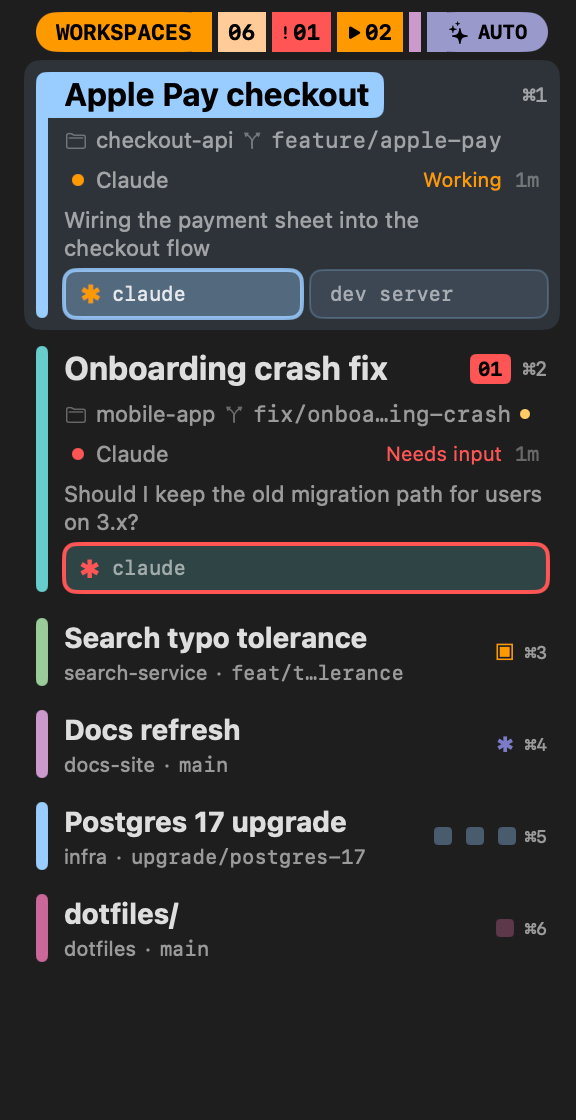
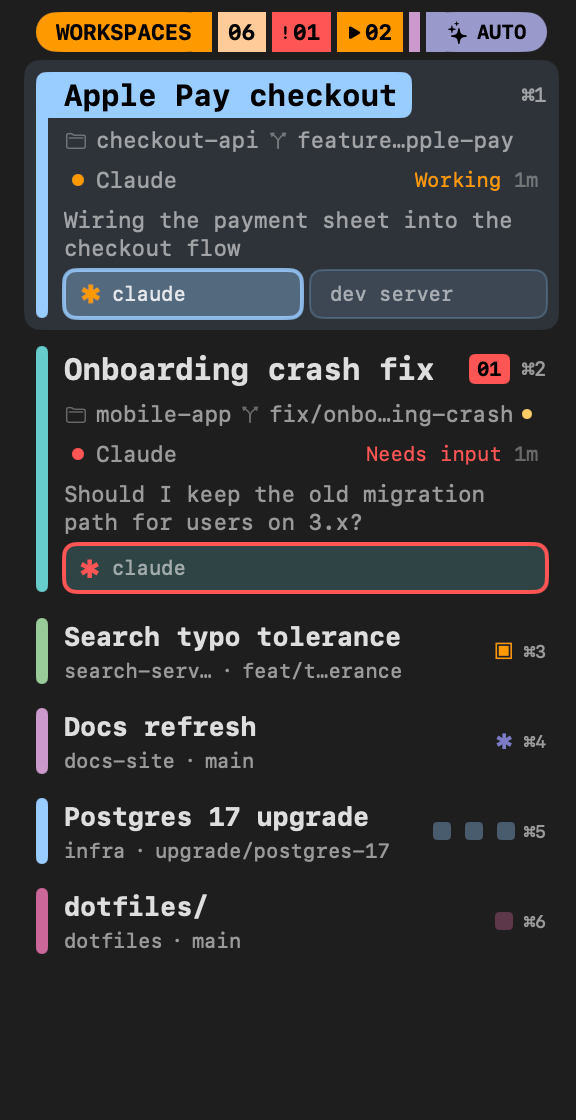
Letter everything in monospace
Names, folders, session labels, status words, messages and the close
prompt now use the monospaced font too, so the whole sidebar reads like
a console readout. Workspace names drop a point (15 on full cards, 13 on
compact rows) so long ones still fit beside the badges and marks. The
agent marks stay in the system font so their size and centre don't move.

diff --git a/lcars.js b/lcars.js
@@ -89,9 +89,8 @@ const PILL = BAR / 2;
 
 const WHITE = "#FFFFFF";
 
-// Typeface rule: monospaced for readouts and data (header, counts, ages,
-// hints, branches, tile labels), the system font for names and prose
-// (workspace titles, folders, session labels, status, messages).
+// Typeface rule: every word is monospaced, like a console readout. The
+// agent marks are not, so their size and centre don't depend on the font.
 
 // Alpha suffixes for `tint`, named by where they are used.
 const ALPHA = {
@@ -341,10 +340,10 @@ function sessionRow(w, s) {
   return HStack({ spacing: 6 }, [
     Circle({ size: 6 }).fill(() => meta().color),
     Text(() => s().label)
-      .font(11).color("secondary")
+      .font(11).monospaced().color("secondary")
       .lineLimit(1).truncation("tail"),
     Spacer({ minLength: 4 }),
-    Text(() => meta().label).font(10).color(() => meta().color).fixedSize(),
+    Text(() => meta().label).font(10).monospaced().color(() => meta().color).fixedSize(),
     Text(() => sessionAge(s().agent))
       .font(10).monospaced()
       .color(() => (quiet(s().agent) ? meta().color : "tertiary"))
@@ -429,7 +428,7 @@ function shortcutHint(w, size) {
 function elbowTitle(w, size, pad) {
   const selected = () => !!w()?.selected;
   return Text(() => workspaceTitle(w()))
-    .font(size).weight("bold")
+    .font(size).weight("bold").monospaced()
     .lineLimit(1).truncation("tail").marquee()
     .color(() => (selected() ? inkOn(accent(w())) : tint(WHITE, ALPHA.strong)))
     .paddingLeading(ELBOW_INSET)
@@ -474,7 +473,7 @@ function card(w) {
   const body = VStack({ spacing: 4 }, [
     // Title row: name, then pin / unread badge.
     HStack({ spacing: 6 }, [
-      elbowTitle(w, 16, 2),
+      elbowTitle(w, 15, 2),
       Spacer({ minLength: 0 }),
       when(() => (w()?.pinned ? "pin" : ""), "pin", () =>
         Image("pin.fill").font(9).color("tertiary")
@@ -486,7 +485,7 @@ function card(w) {
       // Folder and branch.
       HStack({ spacing: 4 }, [
         Image("folder").font(9).color("tertiary"),
-        Text(folder).font(11).color("secondary").lineLimit(1).truncation("tail"),
+        Text(folder).font(11).monospaced().color("secondary").lineLimit(1).truncation("tail"),
         Image("arrow.triangle.branch").font(9).color("tertiary")
           .opacity(() => (branch() ? 1 : 0)),
         Text(branch).font(11).monospaced().color("secondary")
@@ -506,7 +505,7 @@ function card(w) {
       // Last agent message.
       when(message, "message", (m) =>
         HStack({ spacing: 0 }, [
-          Text(() => m()).font(11).color("secondary").lineLimit(2).truncation("tail"),
+          Text(() => m()).font(11).monospaced().color("secondary").lineLimit(2).truncation("tail"),
           Spacer({ minLength: 0 }),
         ])
       ),
@@ -568,7 +567,7 @@ function closeConfirm(w) {
       .fill(LCARS.red)
       .frame({ width: 6, height: 26 }),
     Text(() => "Close " + workspaceTitle(w()) + "?")
-      .font(12).weight("semibold")
+      .font(12).weight("semibold").monospaced()
       .lineLimit(1).truncation("tail"),
     Spacer({ minLength: 4 }),
     button("arrow.uturn.backward", "secondary", tint(WHITE, ALPHA.wash), tint(WHITE, ALPHA.button), () => setClosing(null)),
@@ -666,7 +665,7 @@ function compactCard(w) {
         // Pin and unread take no room, gaps included, until they show, so the
         // name keeps the width.
         HStack({ spacing: 0 }, [
-          elbowTitle(w, 14, 1),
+          elbowTitle(w, 13, 1),
           Spacer({ minLength: 0 }),
           when(() => (w()?.pinned ? "pin" : ""), "pin", () =>
             Image("pin.fill").font(8).color("tertiary").paddingLeading(5)
@@ -674,14 +673,14 @@ function compactCard(w) {
           unreadBlock(w, 9).paddingLeading(() => ((w()?.unread ?? 0) > 0 ? 5 : 0)),
         ]),
         // As on a full card, with the folder and branch icons left out for
-        // lack of room: the branch is monospaced, and each truncates on its
-        // own so neither disappears on a narrow sidebar.
+        // lack of room; each truncates on its own so neither disappears on a
+        // narrow sidebar.
         HStack({ spacing: 4 }, [
           Text(folder)
-            .font(10).color("secondary")
+            .font(10).monospaced().color("secondary")
             .lineLimit(1).truncation("tail"),
           Text(() => (branch() ? "·" : ""))
-            .font(10).color("secondary").fixedSize(),
+            .font(10).monospaced().color("secondary").fixedSize(),
           Text(branch)
             .font(10).monospaced().color("secondary")
             .lineLimit(1).truncation("middle"),

diff --git a/README.md b/README.md
@@ -37,7 +37,7 @@ periwinkle and gold are kept for status:
 
 - **Name**, with a pin icon when pinned and a red unread-count readout. A
   workspace still named after its path shows as its folder, like `orders/`.
-- **Folder and branch**, the branch in grey monospace, with a gold dot when
+- **Folder and branch**, the branch in grey, with a gold dot when
   the working tree has uncommitted changes.
 - **Agent status**: every live agent session gets its own row, even when
   there is only one: a dot, its name, then its status and age on the right.
@@ -51,7 +51,7 @@ periwinkle and gold are kept for status:
   left off the name. A tile that needs input gets a red border instead of the
   unread dot, and the focused terminal is highlighted.
 
-Compact rows show the name, then folder and branch (monospace) below it. The
+Compact rows show the name, then folder and branch below it. The
 marks sit at the right in fixed slots, so they line up in columns from row
 to row. With more than three terminals the last slot shows "+N" for the ones
 not shown. The ⌘ number hint is aligned after them.
